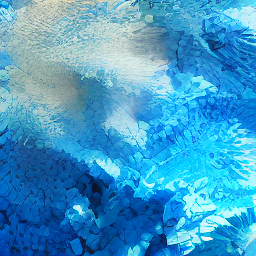
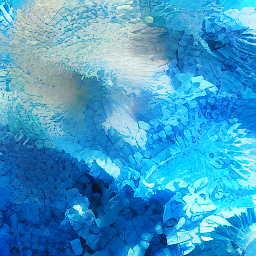
demo output

diff --git a/demo/app.py b/demo/app.py
@@ -189,9 +189,9 @@ def main_streamlit():
     
     # Checkpoint mapping
     checkpoints_map = {
-        "Finetuned Efficient (Default)": "checkpoints/best.pt",
-        "Efficient Baseline (High Quality)": "best res/efficient_20260222_004718/best_model.pth",
-        "Lightweight (High Robustness)": "best res/lightweight_20260222_233224/best.pt"
+        "Finetuned Efficient (Default)": "models/BestModel/best.pt",
+        "Efficient Baseline (High Quality)": "resultmodels/efficient_20260221_164606/best_model.pth",
+        "Lightweight (High Robustness)": "resultmodels/attack_fast_20260224_193821/best.pt"
     }
     
     # Sidebar parameter selectors

diff --git a/demo/inference.py b/demo/inference.py
@@ -85,7 +85,7 @@ def main():
     """Main execution entrypoint for CLI inference run."""
     parser = argparse.ArgumentParser()
     parser.add_argument('--image', type=str, required=True, help='Path to input image')
-    parser.add_argument('--checkpoint', type=str, default='checkpoints/best.pt', help='Path to model checkpoint')
+    parser.add_argument('--checkpoint', type=str, default='models/BestModel/best.pt', help='Path to model checkpoint')
     parser.add_argument('--output-dir', type=str, default='demo/output', help='Output directory')
     parser.add_argument('--attack', type=str, default='jpeg', choices=['none', 'jpeg', 'noise', 'blur', 'resize', 'crop', 'rotate'], help='Attack type')
     args = parser.parse_args()